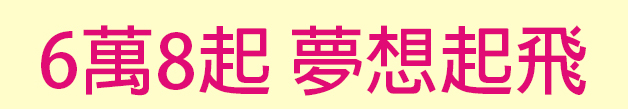
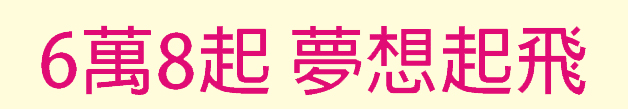
Update

diff --git a/index.html b/index.html
@@ -7,9 +7,9 @@
 <!--
 body {
 	background-image: url();
-	background-color: #FFFDCA;
+	background-color: #fffcdb;
 	margin-left: 0px;
-	margin-top: 50px;
+	margin-top: 20px;
 }
 -->
 </style></head>
@@ -17,16 +17,20 @@ body {
 <body>
 <table width="500" border="0" align="center" cellpadding="0" cellspacing="0">
   <tr>
-    <td align="left" valign="top"><img src="images/open01.jpg" width="628" height="169" /></td>
+    <td align="center" valign="top"><img src="images/open01.jpg" width="481" height="125" /></td>
   </tr>
   <tr>
-    <td align="left" valign="top"><a href="home.html"><img src="images/open02.jpg" width="628" height="151" border="0" usemap="#Map" /></a><a href="home.html"></a></td>
+    <td align="center" valign="top"><a href="home.html"><img src="images/open012.jpg" width="481" height="136" /></a></td>
   </tr>
   <tr>
-    <td align="left" valign="top"><img src="images/open03.jpg" width="628" height="109" /></td>
+    <td align="center" valign="top"><a href="home.html"><img src="images/open03.jpg" width="628" height="109" usemap="#Map" border="0" /></a></td>
+  </tr>
+  <tr>
+    <td align="left" valign="top"><img src="images/open031.jpg" width="1090" height="231" /></td>
   </tr>
 </table>
-
-<map name="Map" id="Map"><area shape="rect" coords="206,22,411,83" href="home.html" />
-</map></body>
+<map name="Map" id="Map">
+  <area shape="rect" coords="20,8,601,104" href="home.html" target="_blank" />
+</map>
+</body>
 </html>
